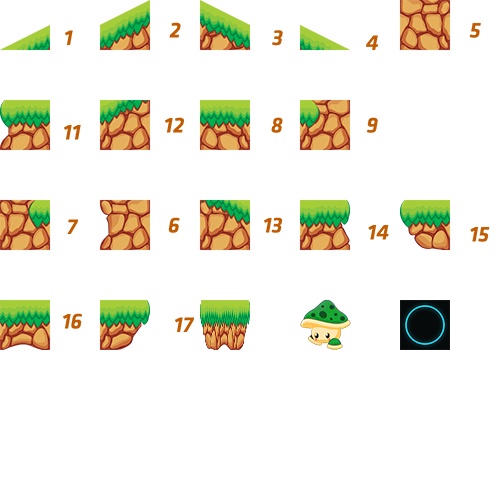
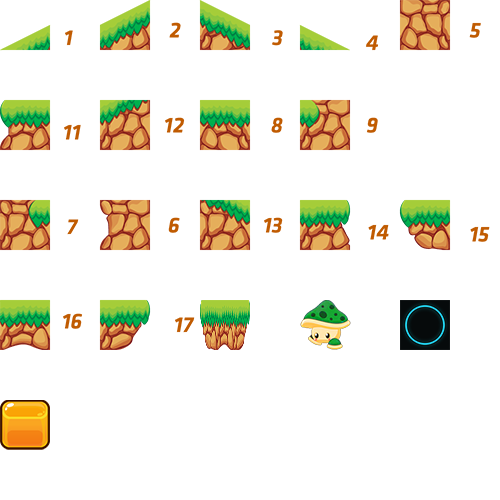
update

Changed region(s): [[0.0, 0.78, 0.12, 0.9]]

diff --git a/SaveTheCat/Classes/ui/scene/CaculateQuickGameScene.cpp b/SaveTheCat/Classes/ui/scene/CaculateQuickGameScene.cpp
@@ -126,6 +126,7 @@ void CaculateQuickGameScene::didLoadFromCSB()
     getGroupNameByPoint("tuong_trai_thap","BlackpinkIsland/ground/ground_world_1/bis_object_ground_world_1_12.png", COLLISION_TUONG);
     getGroupNameByPoint("tuong_phai_thap","BlackpinkIsland/ground/ground_world_1/bis_object_ground_world_1_13.png", COLLISION_TUONG);
     getGroupNameByPoint("obj_t_1","BlackpinkIsland/ground/ground_world_1/t_1.png", COLLISION_TUONG);
+    getGroupNameByPoint("obj_rotation","BlackpinkIsland/object/bis_object_rotate.png", COLLISION_TUONG);
     getGroupNameByPoint("mushrom_world_1","", COLLISION_ENEMY);
     getGroupNameByPoint("kim_cuong","", COLLISION_DIAMOND);
 
@@ -171,6 +172,7 @@ void CaculateQuickGameScene::getGroupNameByPoint(std::string name, std::string p
     }
 
     auto listValuOfGroup = group->getObjects();
+    int j = 0;
 
     for (int i = 0; i < listValuOfGroup.size(); i++)
     {
@@ -206,6 +208,15 @@ void CaculateQuickGameScene::getGroupNameByPoint(std::string name, std::string p
         }
 
         sprite = CreateObject(pathSr, cocos2d::Vec2(x, y) + Vec2(width / 2, height), name, collison, ani);
+        if (name == "obj_rotation")
+        {
+            auto moveCircular = CircularMove::create(2, sprite->getPosition(), j % 2 == 0 ? 100 : -100);
+            moveCircular->SetSpr(sprite);
+            moveCircular->SetSpeed();
+            auto ac = RepeatForever::create(moveCircular);
+            sprite->runAction(ac);
+            j++;
+        }
 
 
        // sprite = CreateObject(pathSr, cocos2d::Vec2(x, y) + Vec2(width / 2, height), name, 23);

diff --git a/SaveTheCat/Classes/ui/scene/CircularMove.h b/SaveTheCat/Classes/ui/scene/CircularMove.h
@@ -1,0 +1,62 @@
+#include "cocos2d.h"
+
+using namespace cocos2d;
+
+class CircularMove : public cocos2d::ActionInterval
+{
+public:
+    static CircularMove* create(float duration, const cocos2d::Vec2& center, float radius)
+    {
+        CircularMove *ret = new (std::nothrow) CircularMove();
+        if (ret && ret->initWithDuration(duration, center, radius))
+        {
+            ret->autorelease();
+            return ret;
+        }
+        else
+        {
+            delete ret;
+            return nullptr;
+        }
+    }
+
+    bool initWithDuration(float duration, const cocos2d::Vec2& center, float radius)
+    {
+        if (ActionInterval::initWithDuration(duration))
+        {
+            _center = center;
+            _radius = radius;
+            return true;
+        }
+        return false;
+    }
+
+    void SetSpr(Sprite* spr) {
+        _spr = spr;
+    }
+
+    void update(float time) override
+    {
+        if (_target)
+        {
+            float angle = 2 * M_PI * time;
+            float x = _center.x + _radius * cos(angle);
+            float y = _center.y + _radius * sin(angle);
+            _target->setPosition(Vec2(x, y));
+
+         _spr->getPhysicsBody()->setVelocity(Vec2(x, y) * 0.25f);
+
+        }
+      
+    }
+
+    void SetSpeed()
+    {
+       // _spr->getPhysicsBody()->setVelocity(Vec2(-_radius * M_PI, 0));
+    }
+
+protected:
+    cocos2d::Vec2 _center;
+    Sprite* _spr = nullptr;
+    float _radius;
+};

diff --git a/SaveTheCat/Classes/ui/scene/CaculateQuickGameScene.h b/SaveTheCat/Classes/ui/scene/CaculateQuickGameScene.h
@@ -3,7 +3,7 @@
 #include "CaculateQuickCocostudioMacro.h"
 #include "spine/SkeletonAnimation.h"
 #include "LevelGamePlay.h"
-
+#include "CircularMove.h";
 
 
 using namespace spine;
